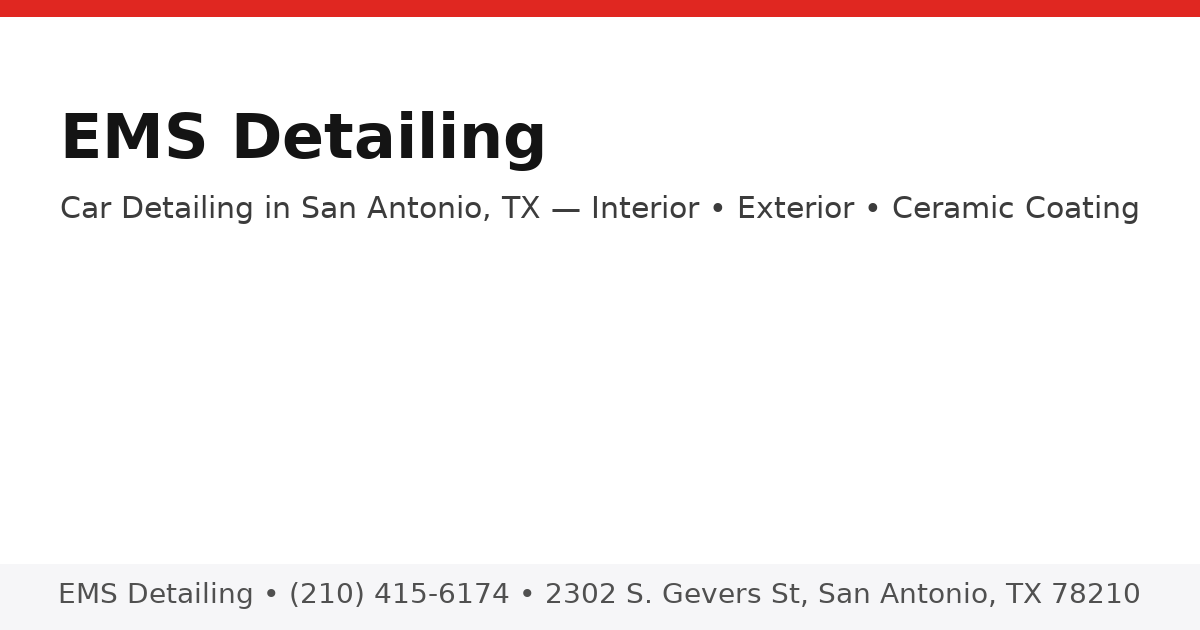
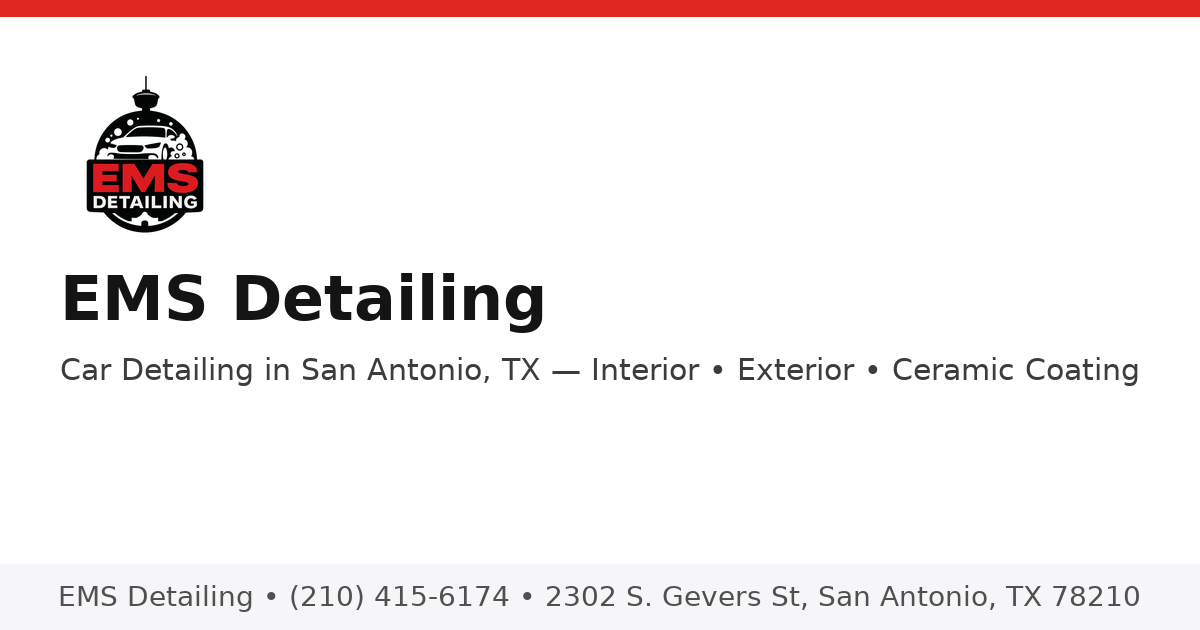
Add files via upload

diff --git a/assets/style.css b/assets/style.css
@@ -1,66 +1,6 @@
-
-:root{
-  --red:#E02721; --ink:#1b1b1b; --charcoal:#0B0B0B; --bg:#F7F7F9; --muted:#6B7280;
-  --card:#FFFFFF; --ring: rgba(224,39,33,.25); --shadow: 0 10px 22px rgba(0,0,0,.08); --r:14px;
-}
-*{box-sizing:border-box}
-html,body{margin:0;padding:0;background:var(--bg);color:var(--ink);font-family:Montserrat,system-ui,-apple-system,"Segoe UI",Roboto,"Helvetica Neue",Arial}
-a{color:var(--red);text-decoration:none}
-.container{max-width:1120px;margin-inline:auto;padding:0 20px}
+/* Minimal fallback styles (use your existing style.css if present) */
+:root{--red:#E02721;--ink:#1b1b1b;--muted:#6B7280}
+body{font-family:system-ui,-apple-system,Segoe UI,Roboto,Helvetica,Arial;margin:0;color:var(--ink)}
 img{max-width:100%;display:block}
-
-/* NAV */
-.nav{position:sticky;top:0;z-index:50;background:#fff;border-bottom:1px solid #eee}
-.nav-inner{display:flex;align-items:center;justify-content:space-between;min-height:72px;padding:10px 0;gap:12px}
-.logo{display:flex;align-items:center;gap:12px}
-.logo .mark{height:40px; width:auto; display:block}
-.wordmark{font-family:"Bebas Neue",sans-serif;font-size:30px;color:var(--charcoal);letter-spacing:.6px}
-.sub{color:var(--muted);font-weight:600}
-.actions{display:flex;gap:10px;flex-wrap:wrap}
-.lang{color:var(--muted);font-weight:700;display:flex;gap:10px;align-items:center}
-.lang a{color:var(--muted)}
-.lang a.active{color:var(--red)}
-
-.btn{display:inline-flex;align-items:center;justify-content:center;padding:12px 16px;border-radius:999px;border:1px solid var(--red);font-weight:700;box-shadow:var(--shadow)}
-.btn.primary{background:var(--red);color:#fff}
-.btn.ghost{background:#fff;color:var(--red)}
-.btn:focus-visible{outline:3px solid var(--ring);outline-offset:2px}
-
-@media(max-width:680px){
-  .nav-inner{flex-wrap:wrap}
-  .sub{display:none}
-  .actions{width:100%}
-  .btn{flex:1 1 auto}
-  .wordmark{font-size:24px}
-  .logo .mark{height:34px}
-}
-
-/* HERO */
-.hero{background:radial-gradient(1200px 420px at 50% -160px, #fff 0, #fff 50%, #f3f3f7 100%);
-  padding:54px 0 30px; border-bottom:1px solid #eee}
-.hero h1{font-family:"Bebas Neue",sans-serif;font-size:54px;line-height:.95;margin:0;color:var(--charcoal)}
-.hero p{margin:14px 0 20px;color:#383838;font-size:18px}
-.pills{display:flex;flex-wrap:wrap;gap:10px}
-.pill{background:#fff;border:1px solid #eee;border-radius:999px;padding:8px 14px;font-weight:600;color:#333}
-
-section{padding:48px 0}
-.title{font-family:"Bebas Neue",sans-serif;font-size:36px;margin:0 0 14px;color:var(--charcoal)}
-.subtitle{color:var(--muted);margin:0 0 22px}
-
-.grid{display:grid;grid-template-columns:repeat(12,1fr);gap:18px}
-.card{grid-column:span 12;background:var(--card);border:1px solid #eee;border-radius:var(--r);box-shadow:var(--shadow);padding:20px}
-.card h3{margin:0 0 6px;font-size:22px}
-.price{font-weight:800;color:var(--red)}
-.features{margin:10px 0 0;padding:0;list-style:none;color:#2c2c2c}
-.features li{padding:6px 0;border-bottom:1px dashed #eee}
-.features li:last-child{border-bottom:0}
-@media(min-width:900px){.span-4{grid-column:span 4}.span-6{grid-column:span 6}}
-
-.band{background:linear-gradient(180deg,#fff,#f7f7fb);border:1px solid #eee;border-radius:var(--r);padding:22px;display:flex;gap:14px;flex-wrap:wrap;align-items:center;justify-content:space-between}
-
-footer{background:#fff;border-top:1px solid #eee;padding:26px 0;color:#444}
-.foot{display:grid;gap:12px}
-@media(min-width:860px){.foot{grid-template-columns:1.2fr .8fr .8fr}}
-
-.sticky{position:fixed;bottom:16px;left:50%;transform:translateX(-50%);background:var(--red);color:#fff;border-radius:999px;padding:14px 18px;box-shadow:0 18px 36px rgba(224,39,33,.35);z-index:60;display:none}
-@media(max-width:760px){.sticky{display:inline-flex}}
+.nav{position:sticky;top:0;background:#fff;border-bottom:1px solid #eee}
+.mark{height:40px}
